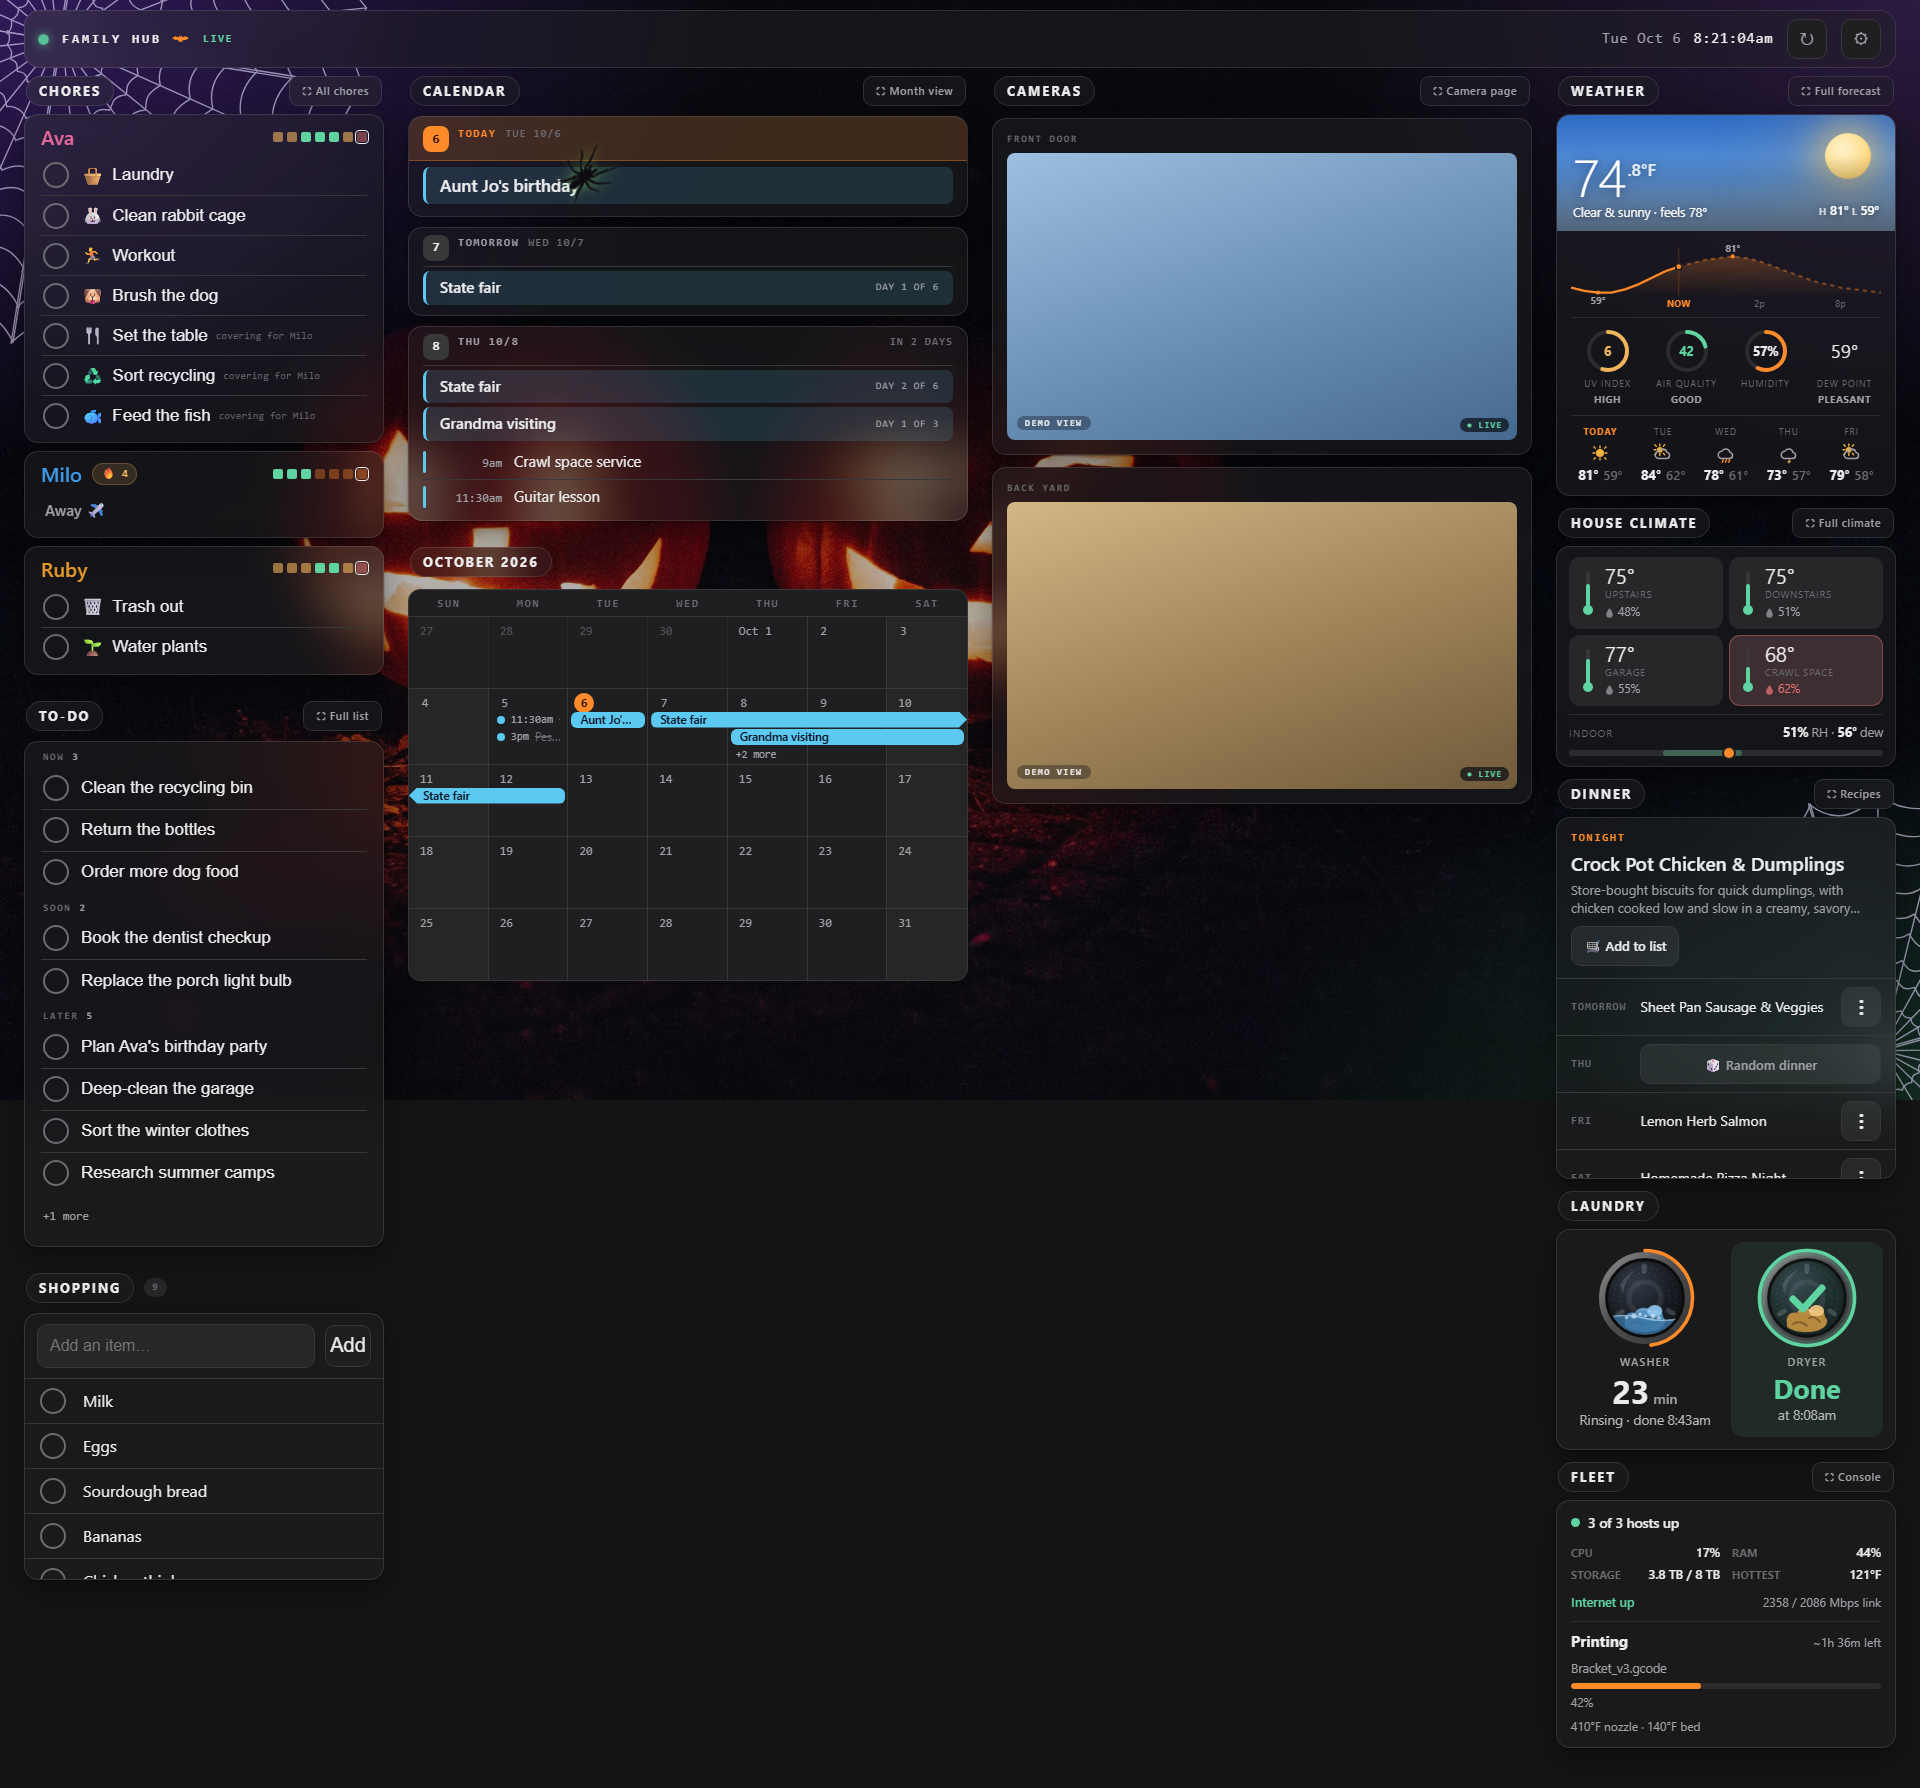
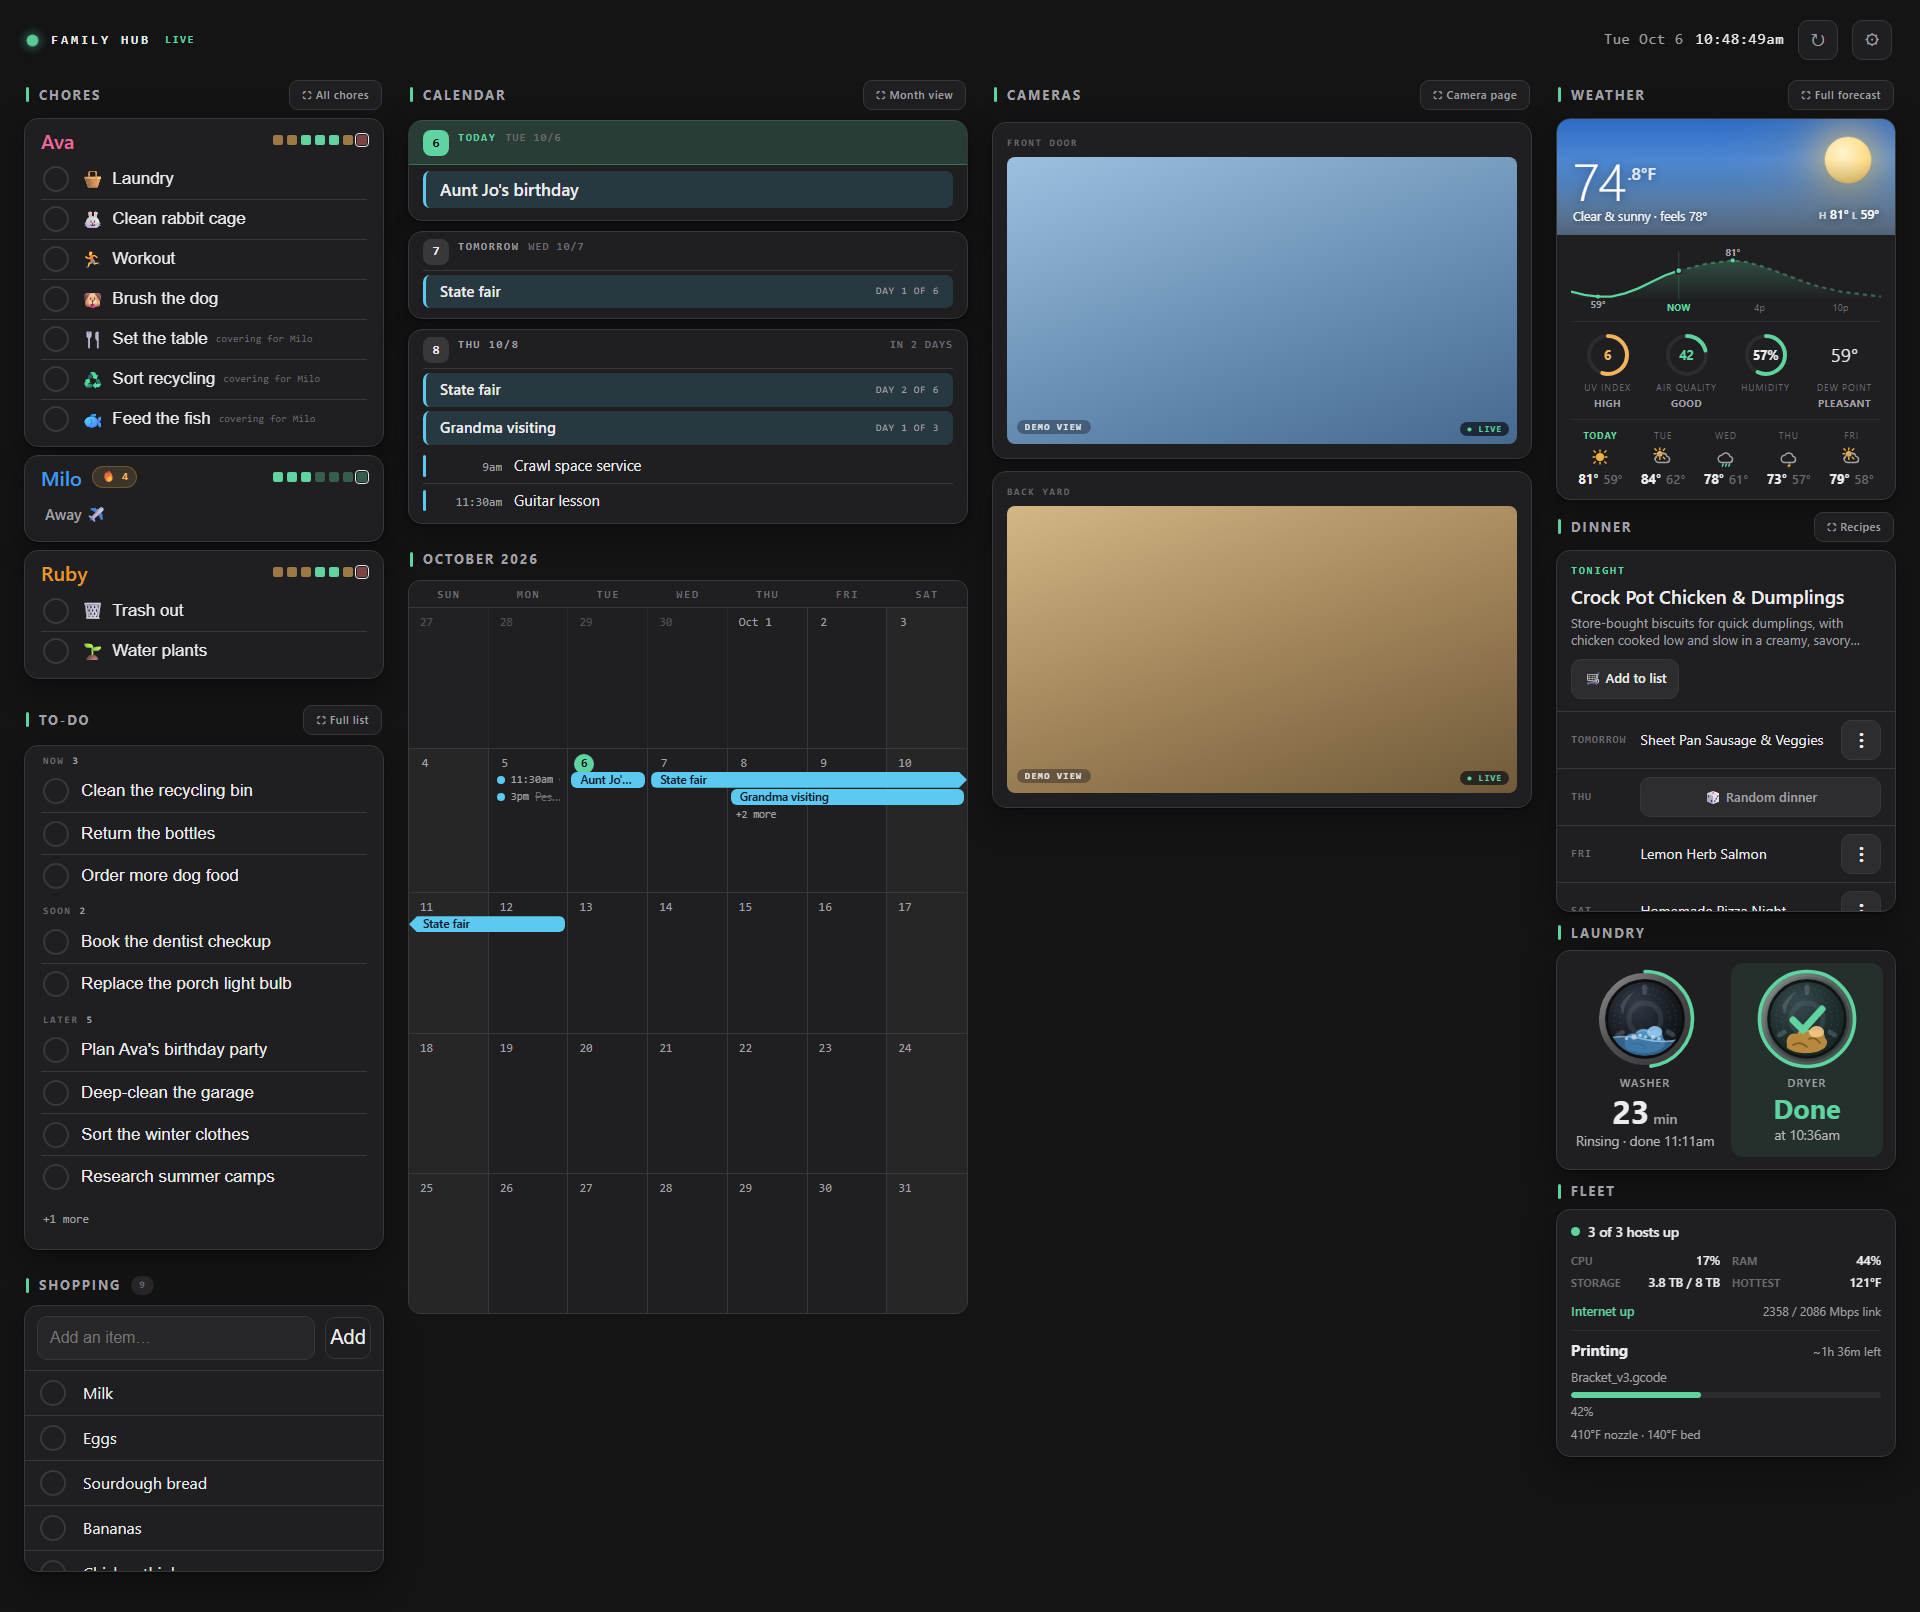
feat: the wall's month grid grows into the screen height that is left
Claude-Session: https://claude.ai/code/session_01G8MMQY5eBEFcUbmff4dMpt

diff --git a/src/family_hub/web/static/styles.css b/src/family_hub/web/static/styles.css
@@ -1987,6 +1987,19 @@ body.overlay-open { overflow: hidden; }
 .month-slot .mg-day { min-height: 0; padding: 2px 6px; }
 .month-slot .mg-num { height: 20px; min-width: 20px; font-size: 12px; }
 .month-slot .mg-bar, .month-slot .mg-ev { font-size: 11.5px; }
+/* The wall fills the screen height (hub.js fitWall sets --wall-h and .wall-fill on the wrap, never on
+   the phone): the calendar column stretches to the grid row, the agenda keeps its natural height, and
+   the month card's weeks share what is left. The card is never shorter than its natural size (the
+   fixed rows above are its floor). The spare height goes into each week's LAST row, below the event
+   lanes, so the "+N more" chip stays right under the events. */
+.wrap.wall-fill { display: flex; flex-direction: column; min-height: var(--wall-h); box-sizing: border-box; }
+.wrap.wall-fill > .hub-grid { flex: 1 0 auto; }
+.wrap.wall-fill .col-mid { align-self: stretch; margin-bottom: 24px; }
+.wrap.wall-fill .month-slot { flex: 1 1 auto; }
+/* ...but never past ~140px a week: a column taller than the screen must not balloon the card */
+.wrap.wall-fill .month-slot .mgrid { flex: 1 1 auto; display: flex; flex-direction: column;
+  max-height: calc(34px + var(--mg-weeks, 6) * 140px); }
+.wrap.wall-fill .month-slot .mg-week { flex: 1 1 auto; grid-template-rows: 22px repeat(2, var(--mg-lane)) minmax(14px, 1fr); }
 /* A day past the calendar sync window (issue #37): the month view can page
    further than the backend actually caches, so mark those cells "not synced"
    rather than let them read as confident-empty. A faint hatch (not a flat

diff --git a/src/family_hub/web/static/hub.js b/src/family_hub/web/static/hub.js
@@ -443,7 +443,7 @@ function monthHtml(y, m, events, todayStr, win, maxLanes = MONTH_MAX_LANES, trim
   for (let w = 0; w < weekCount; w++) {
     weeks += monthWeekHtml(grid.slice(w * 7, w * 7 + 7), events, todayStr, win, maxLanes);
   }
-  return `<div class="mgrid"><div class="mg-heads">${heads}</div>${weeks}</div>`;
+  return `<div class="mgrid" style="--mg-weeks:${weekCount}"><div class="mg-heads">${heads}</div>${weeks}</div>`;
 }
 
 function calNavHtml(title, hasWritableCalendars) {
@@ -4391,7 +4391,18 @@ let fitDebounce = null;
 function fitWall() {
   const wrap = document.querySelector('.wrap');
   if (!wrap) { console.warn('fitWall: .wrap not found; wall will not fit-scale'); return; }
-  wrap.style.zoom = wallZoom(window.innerWidth);
+  const zoom = wallZoom(window.innerWidth);
+  wrap.style.zoom = zoom;
+  // the wall fills the screen height, so the calendar column can grow into the room the cards
+  // above it leave (styles.css .wall-fill); the phone gets neither the class nor the variable
+  const fill = wallFillHeight(window.innerWidth, window.innerHeight, zoom);
+  if (fill === '') {
+    wrap.classList.remove('wall-fill');
+    wrap.style.removeProperty('--wall-h');
+  } else {
+    wrap.style.setProperty('--wall-h', `${fill}px`);
+    wrap.classList.add('wall-fill');
+  }
 }
 fitWall();
 

diff --git a/src/family_hub/web/static/common.js b/src/family_hub/web/static/common.js
@@ -595,6 +595,16 @@ function wallZoom(w) {
   return scale >= 1 ? '' : String(scale);
 }
 
+// The page height, in the wall's own (zoomed) layout pixels, that the wall fills: the screen height
+// divided by the zoom. The calendar column stretches into whatever this leaves below the other
+// cards (TODO item 5). Floored so a fractional viewport can never add a scrollbar. '' on the
+// phone layout (same <= 1000px rule as wallZoom) and on an unknown height.
+function wallFillHeight(w, h, zoom) {
+  if (!w || w <= 1000 || !(h > 0)) return '';
+  const z = parseFloat(zoom) || 1;
+  return Math.floor(h / z);
+}
+
 /* How many UTF-16 code units the grapheme ending at index `a` occupies, so a
    single Backspace removes a whole user-perceived character - critical for
    emoji, which are 2+ code units (a plain emoji is a surrogate pair; ❤ carries

diff --git a/tests/test_static.py b/tests/test_static.py
@@ -2586,3 +2586,22 @@ def test_recipes_css_is_light_enough_for_a_pi_3_and_adapts_to_the_phone():
     assert re.search(r"\.recipe-plan,[^{]*\.recipe-day\s*\{[^}]*min-height:\s*44px", mobile), "44px plan buttons on the phone"
     assert re.search(r"\.recipe-days\s*\{[^}]*repeat\(2,", mobile), "two day chips across on the phone"
     assert "recipe-noimg" not in CSS
+
+
+def test_wall_calendar_column_grows_into_the_screen_height_that_is_left():
+    """The month card's week rows absorb the leftover height (TODO item 5); today/tomorrow keep
+    their natural height, the card never gets shorter than before, and the phone is untouched."""
+    fill = re.findall(r"(?m)^\.wrap\.wall-fill[^{}\n]*\{[^}]*\}", CSS)
+    joined = "\n".join(fill)
+    assert re.search(r"\.wrap\.wall-fill\s*\{[^}]*min-height:\s*var\(--wall-h\)", joined), "the page fills the screen"
+    assert re.search(r"\.wall-fill\s+\.col-mid\s*\{[^}]*align-self:\s*stretch", joined), "the column stretches to the row"
+    assert re.search(r"\.wall-fill\s+\.month-slot\s*\{[^}]*flex:\s*1", joined), "the card takes what the agenda leaves"
+    assert re.search(r"\.wall-fill\s+\.month-slot\s+\.mg-week\s*\{[^}]*minmax\(14px,\s*1fr\)", joined), \
+        "the spare height goes below the events, so the +N more chip stays under them"
+    assert re.search(r"\.wall-fill\s+\.month-slot\s+\.mgrid\s*\{[^}]*max-height:\s*calc\([^}]*--mg-weeks", joined), \
+        "the card never balloons past a sane height when another column is taller than the screen"
+    for rule in fill:
+        assert "transition" not in rule and "animation" not in rule and "backdrop-filter" not in rule, rule
+    assert "wall-fill" not in _phone_shell_css(), "the phone shell never sees it"
+    hub = (STATIC / "hub.js").read_text(encoding="utf-8")
+    assert "wallFillHeight(" in hub and "'wall-fill'" in hub, "fitWall drives it"

diff --git a/README.md b/README.md
@@ -57,7 +57,10 @@ at one URL.
   app with no browser toolbar (and no browser quirks); a normal browser tab
   also self-heals the occasional stuck-height reload on its own.
 - **Calendar:** on the wall, a 3-day agenda with the current month's grid
-  always showing under it (tap a day to open it in the full calendar); on the
+  always showing under it (tap a day to open it in the full calendar). The
+  agenda keeps the height it needs and the month grid grows into whatever
+  screen height is left (the week rows get taller, never shorter than before,
+  and never past about 140px a week); on the
   phone, the next-5-days home feed. Full-screen month grid + week agenda +
   day drill-in, tap-any-event detail cards, your own Google sidebar colors,
   multi-day events drawn as one bar across their span (Google-style), ended

diff --git a/CHANGELOG.md b/CHANGELOG.md
@@ -98,6 +98,7 @@ rolls that section to a dated version via `python scripts/release.py`.
   another list, is a clean 404 and never a blind write.
 
 ### Changed
+- Wall: the month grid under the agenda now grows into the screen height that is left, so the week rows are taller and less cramped when today and tomorrow are quiet (up to about 140px a week, never shorter than before); the agenda is unchanged.
 - Recipes: the Dinner card's **Full screen** button is now **Recipes** and opens the native
   view instead of embedding Mealie (a 15-25 second blank page on a Pi 3). The `open_url`
   setting is still accepted but no longer used.
